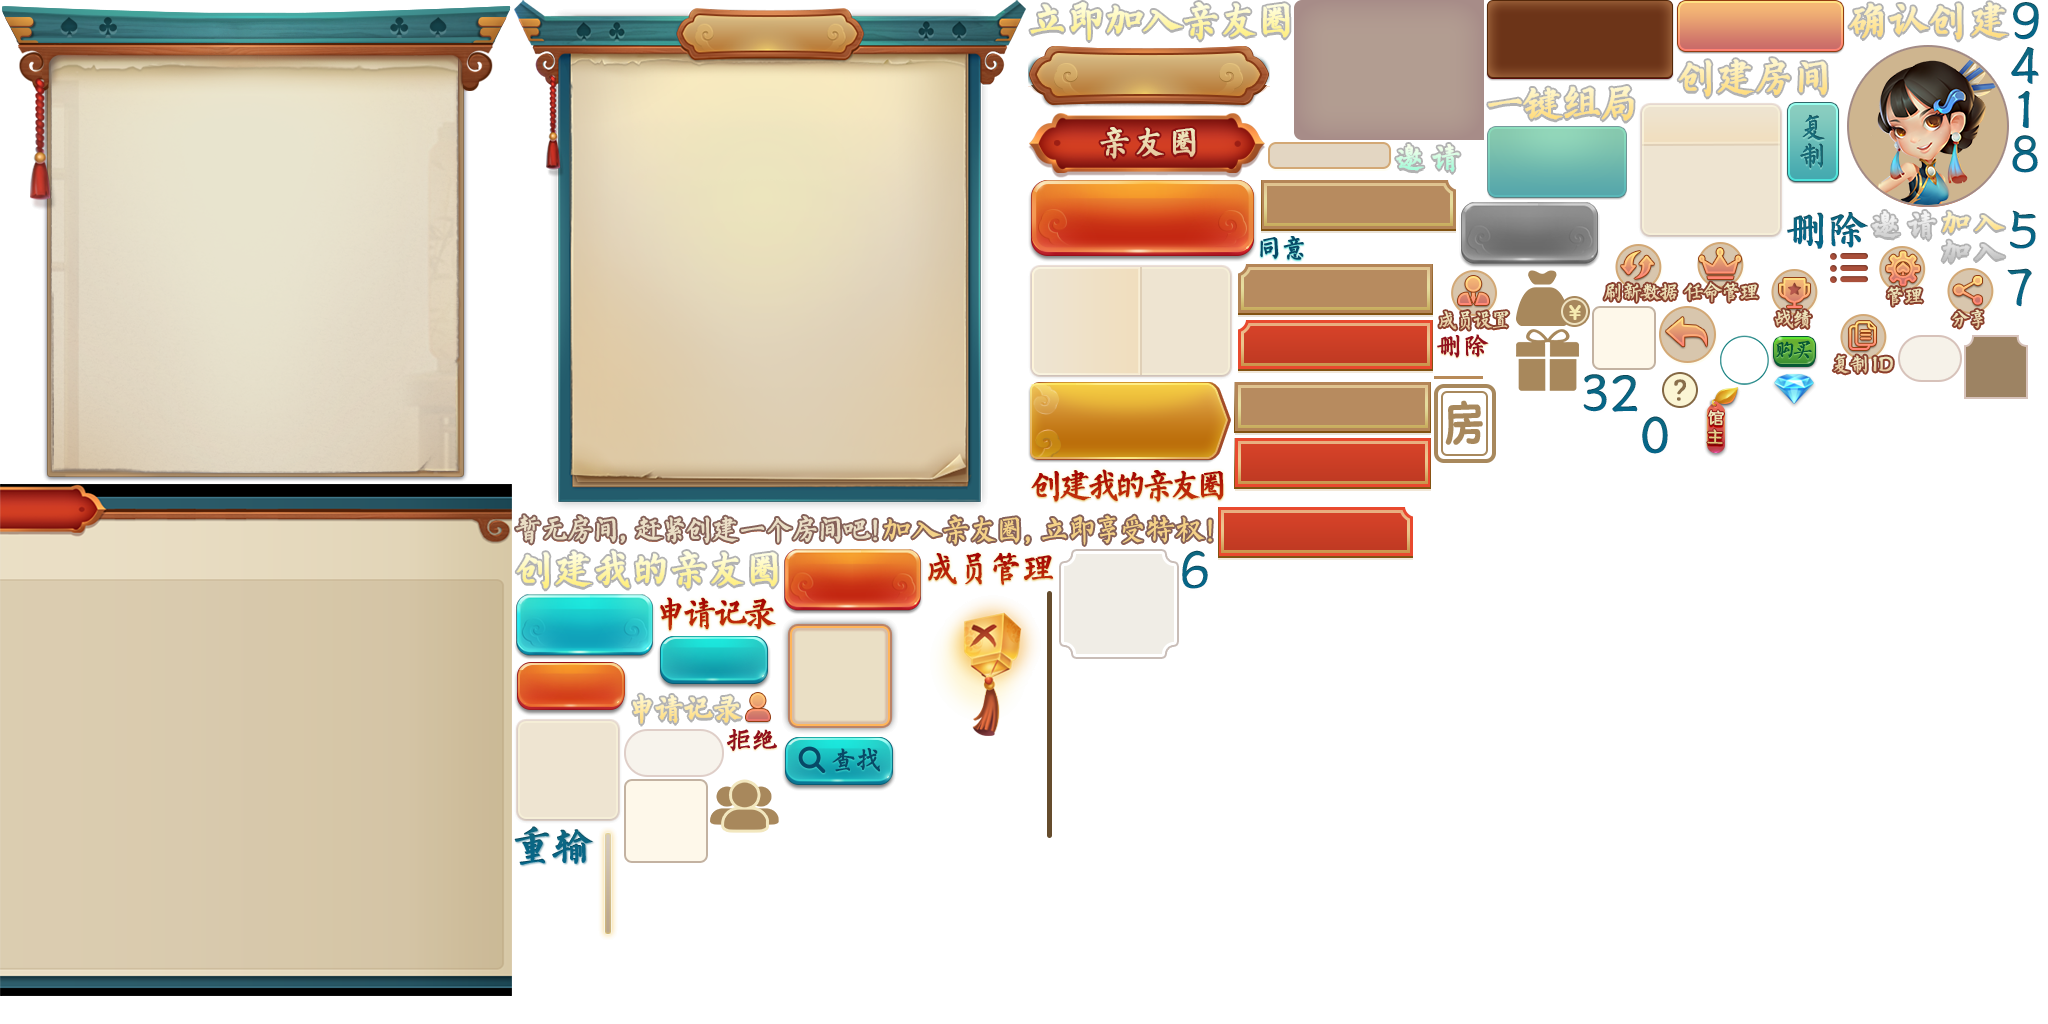
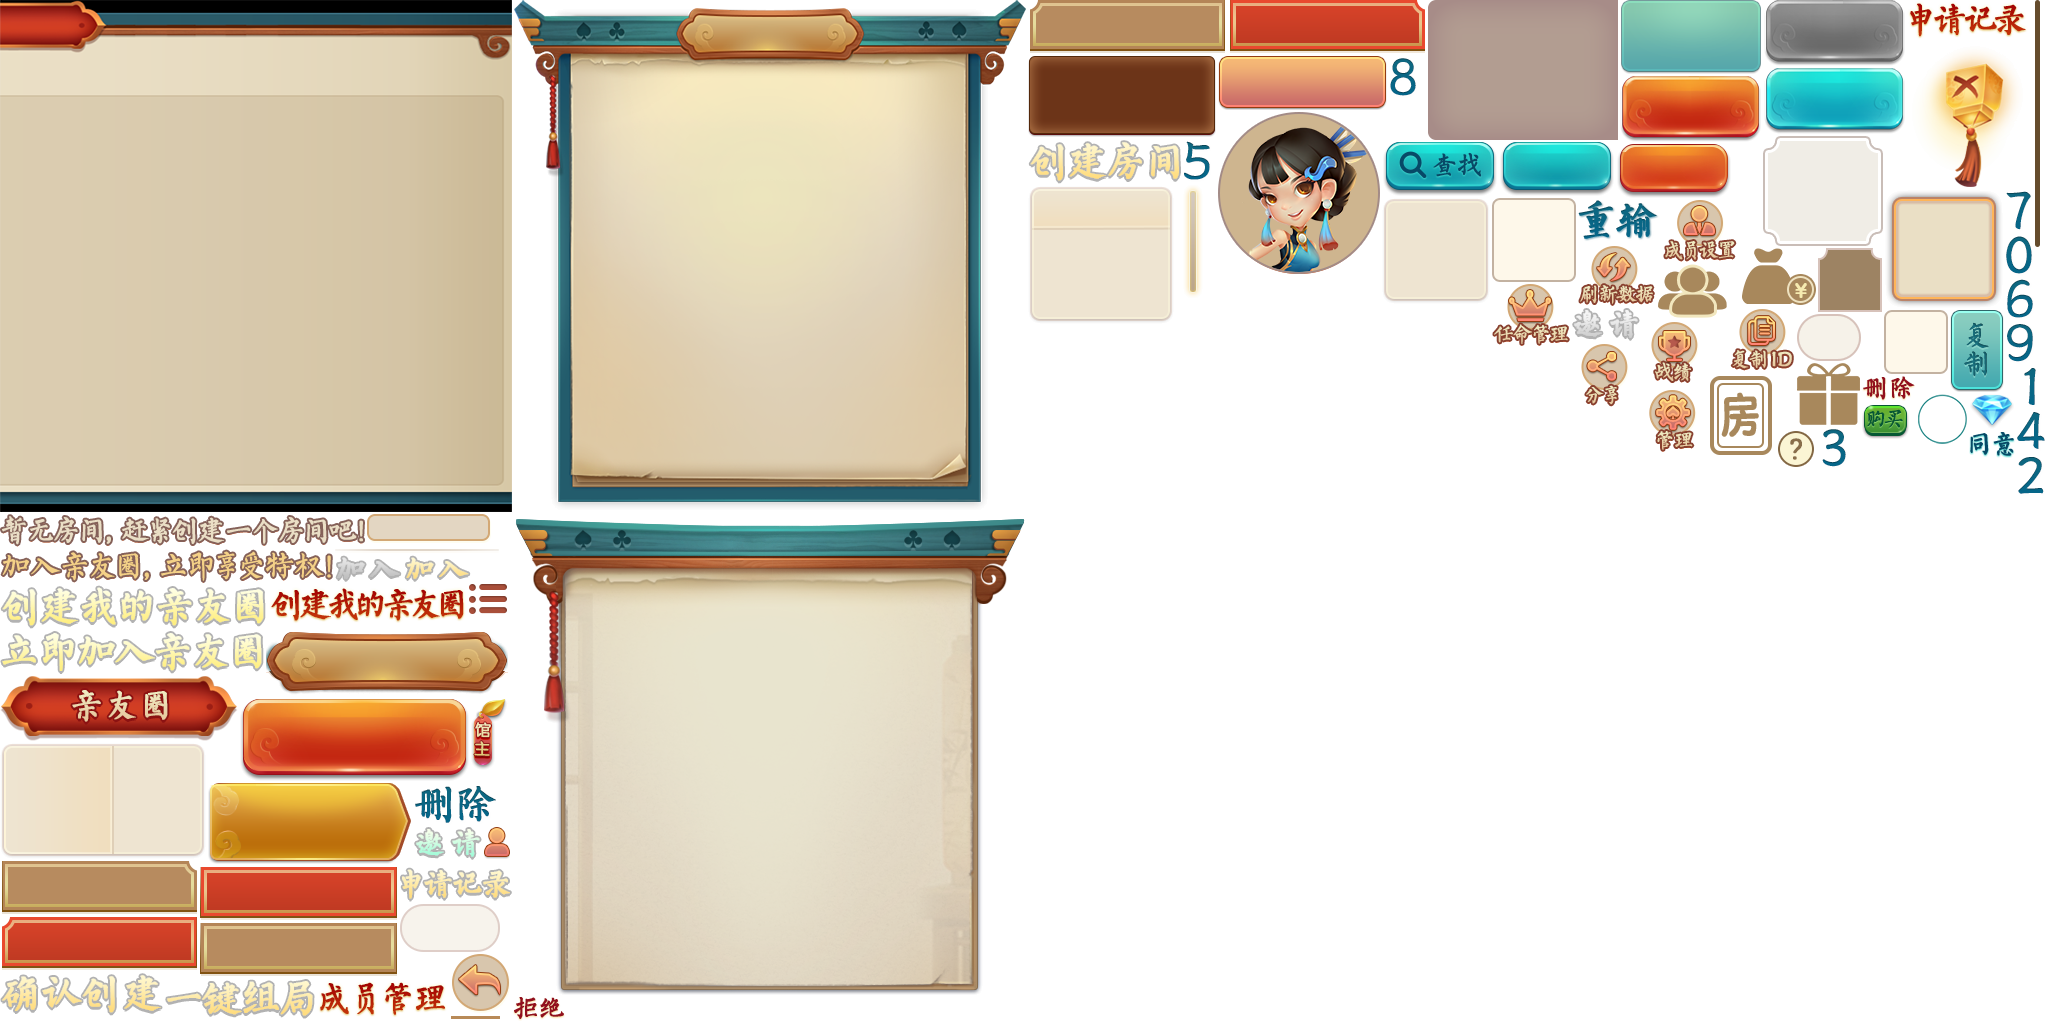
popup

diff --git a/assets/Script/modules/lobby/views/club/ClubView.ts b/assets/Script/modules/lobby/views/club/ClubView.ts
@@ -2,9 +2,11 @@ import { DataStore, Dialog, HTTP, LEnv, LobbyModuleInterface, Logger } from "../
 import { proto } from "../../proto/protoLobby";
 import { LobbyError } from "../LobbyError";
 import { ApplyRecordView } from "./ApplyRecordView";
+import { ClubRequestError } from "./ClubRequestError";
 import { CreateClubView } from "./CreateClubView";
 import { JoinClubView } from "./JoinClubView";
 import { MemberManagerView } from "./MemberManagerView";
+import { SettingPopupView } from "./SettingPopupView";
 
 const { ccclass } = cc._decorator;
 
@@ -36,6 +38,22 @@ export class ClubView extends cc.Component {
     // 选择的茶馆
     private selectedClub: proto.club.IMsgClubInfo;
 
+    public deleteClub(): void {
+
+        const tk = DataStore.getString("token", "");
+        const loadEmailUrl = `${LEnv.rootURL}${LEnv.deleteClub}?&tk=${tk}&clubID=${this.selectedClub.baseInfo.clubID}`;
+
+        const cb = (xhr: XMLHttpRequest, err: string) => {
+
+            const data = <Uint8Array>xhr.response;
+            this.reloadCLub(data);
+
+        };
+
+        this.clubRequest(loadEmailUrl, cb);
+
+    }
+
     protected onDestroy(): void {
 
         this.eventTarget.emit("destroy");
@@ -44,7 +62,6 @@ export class ClubView extends cc.Component {
     }
 
     protected onLoad(): void {
-        //
         this.eventTarget = new cc.EventTarget();
 
         const lm = <LobbyModuleInterface>this.getComponent("LobbyModule");
@@ -65,7 +82,6 @@ export class ClubView extends cc.Component {
     }
 
     private initView(): void {
-        //
 
         this.content = this.view.getChild("content").asCom;
         this.clubPage = this.content.getChild("clubPage");
@@ -119,7 +135,7 @@ export class ClubView extends cc.Component {
         const memberSettingBtn = this.view.getChild("memberSettingBtn");
         memberSettingBtn.onClick(this.onMemberSettingBtnClick, this);
 
-        // 管理管理
+        // 管理
         const managerBtn = this.view.getChild("managerBtn");
         managerBtn.onClick(this.onManagerBtnClick, this);
 
@@ -222,26 +238,22 @@ export class ClubView extends cc.Component {
     }
 
     private onManagerBtnClick(): void {
-        //
 
-        Dialog.showDialog("是否删除此牌友群", () => {
+        const userId = DataStore.getString("userID", "");
+        const clubOwnerId = this.selectedClub.creatorUserID;
+        const isManager = userId === clubOwnerId ? true : false;
 
-            this.deleteClub();
-            // tslint:disable-next-line:align
-        }, () => {
-            //
-        });
+        const popupView = this.addComponent(SettingPopupView);
+        popupView.show(isManager, this);
     }
 
     private onMemberSettingBtnClick(): void {
-        //
 
         const view = this.addComponent(MemberManagerView);
         view.setClubInfo(this.selectedClub);
     }
 
     private renderPhraseListItem(index: number, obj: fgui.GObject): void {
-        //
         let clubInfo: proto.club.IMsgClubInfo;
 
         if (this.clubs !== undefined) {
@@ -273,23 +285,15 @@ export class ClubView extends cc.Component {
 
     }
 
-    private updateClubList(data: Uint8Array): void {
-        //
-        let clubRsp = null;
-        if (data !== null) {
-            const msgClubReply = proto.club.MsgClubReply.decode(data);
-            if (msgClubReply.replyCode === proto.club.ClubReplyCode.RCOperation) {
-                clubRsp = proto.club.MsgClubLoadMyClubsReply.decode(msgClubReply.content);
-            }
-        }
-
+    private updateClubList(clubRsp: proto.club.MsgClubLoadMyClubsReply): void {
         this.updateList(clubRsp);
 
     }
 
     private updateList(clubRsp: proto.club.MsgClubLoadMyClubsReply): void {
-        //
-        this.clubs = clubRsp.clubs;
+        if (clubRsp !== null) {
+            this.clubs = clubRsp.clubs;
+        }
         this.clubList.numItems = this.clubs.length + 1;
         this.clubList.selectedIndex = 0;
 
@@ -318,16 +322,20 @@ export class ClubView extends cc.Component {
     }
 
     private loadClub(): void {
-        //
-
         const tk = DataStore.getString("token", "");
         const loadEmailUrl = `${LEnv.rootURL}${LEnv.loadMyClubs}?&tk=${tk}`;
 
         const cb = (xhr: XMLHttpRequest, err: string) => {
-            //
 
             const data = <Uint8Array>xhr.response;
-            this.updateClubList(data);
+            let clubRsp: proto.club.MsgClubLoadMyClubsReply = null;
+            if (data !== null) {
+                const msgClubReply = proto.club.MsgClubReply.decode(data);
+                if (msgClubReply.replyCode === proto.club.ClubReplyCode.RCOperation) {
+                    clubRsp = proto.club.MsgClubLoadMyClubsReply.decode(msgClubReply.content);
+                }
+            }
+            this.updateClubList(clubRsp);
 
         };
 
@@ -346,13 +354,12 @@ export class ClubView extends cc.Component {
         const loadEmailUrl = `${LEnv.rootURL}${LEnv.loadClubRooms}?&tk=${tk}&clubID=${clubId}`;
 
         const cb = (xhr: XMLHttpRequest, err: string) => {
-            //
             const data = <Uint8Array>xhr.response;
 
             if (data !== null) {
                 const msgLoadRoomListRsp = proto.lobby.MsgLoadRoomListRsp.decode(data);
                 if (msgLoadRoomListRsp.result === proto.lobby.MsgError.ErrSuccess) {
-                    //
+
                     this.updateClubRooms(msgLoadRoomListRsp.roomInfos);
                 } else {
                     const error = LobbyError.getErrorString(msgLoadRoomListRsp.result);
@@ -363,48 +370,35 @@ export class ClubView extends cc.Component {
                     });
                 }
             }
-
-            //this.reloadCLub(data);
-
         };
 
         this.clubRequest(loadEmailUrl, cb);
     }
 
     private updateClubRooms(roomInfos: proto.lobby.IRoomInfo[]): void {
-        //
+
         Logger.debug("updateClubRooms roomInfos = ", roomInfos);
 
         if (roomInfos.length === 0) {
             this.clubPage.asCom.getController("hasRoom").selectedIndex = 0;
         } else {
             //
-
         }
     }
 
-    private deleteClub(): void {
-        //this.destroy();
-
-        const tk = DataStore.getString("token", "");
-        const loadEmailUrl = `${LEnv.rootURL}${LEnv.deleteClub}?&tk=${tk}&clubID=${this.selectedClub.baseInfo.clubID}`;
-
-        const cb = (xhr: XMLHttpRequest, err: string) => {
-            //
-
-            const data = <Uint8Array>xhr.response;
-            this.reloadCLub(data);
-
-        };
-
-        this.clubRequest(loadEmailUrl, cb);
-
-    }
-
     private reloadCLub(data: Uint8Array): void {
-        //
+        let clubRsp: proto.club.MsgClubLoadMyClubsReply = null;
+        if (data !== null) {
+            const msgClubReply = proto.club.MsgClubReply.decode(data);
+            if (msgClubReply.replyCode === proto.club.ClubReplyCode.RCOperation) {
+                clubRsp = proto.club.MsgClubLoadMyClubsReply.decode(msgClubReply.content);
+                this.updateClubList(clubRsp);
+            } else if (msgClubReply.replyCode === proto.club.ClubReplyCode.RCError) {
+                const msgCubOperGenericReply = proto.club.MsgCubOperGenericReply.decode(msgClubReply.content);
+                ClubRequestError.showErrMsg(msgCubOperGenericReply.errorCode);
+            }
 
-        this.updateClubList(data);
+        }
     }
 
     /**

diff --git a/assets/Script/modules/lobby/views/club/SettingPopupView.ts b/assets/Script/modules/lobby/views/club/SettingPopupView.ts
@@ -1,0 +1,84 @@
+import { Dialog, Logger } from "../../lcore/LCoreExports";
+
+interface ClubOperations {
+
+    deleteClub: Function;
+}
+
+/**
+ * 管理界面
+ */
+export class SettingPopupView extends cc.Component {
+
+    private view: fgui.GComponent = null;
+
+    private clubView: ClubOperations;
+
+    public show(isManager: boolean, clubView: ClubOperations): void {
+        this.clubView = clubView;
+
+        const settingPopupView = fgui.UIPackage.createObject("lobby_club", "settingPopup").asCom;
+        this.view = settingPopupView;
+
+        this.initView(isManager);
+        fgui.GRoot.inst.showPopup(this.view);
+        this.view.setPosition(949, 106);
+
+    }
+
+    private initView(isManager: boolean): void {
+        //
+
+        const bg = this.view.getChild("bg").asImage;
+
+        const managerCom = this.view.getChild("managerCom").asCom;
+
+        const modifyNameItem = managerCom.getChild("modify").asButton;
+        const disbandItem = managerCom.getChild("disband").asButton;
+        const quickSettingItem = managerCom.getChild("quickSetting").asButton;
+        const quitClub = this.view.getChild("quitClubBtn").asButton;
+
+        modifyNameItem.onClick(this.onModifyClubNameClick, this);
+        disbandItem.onClick(this.onDisbandClick, this);
+        quickSettingItem.onClick(this.onQuickSettingClick, this);
+        quitClub.onClick(this.onQuitClubClick, this);
+
+        if (isManager === false) {
+            //
+            managerCom.visible = false;
+            bg.height = 91;
+            quitClub.setPosition(8, 19);
+            this.view.setSize(172, 94);
+        }
+
+    }
+
+    private onModifyClubNameClick(): void {
+        //
+        Logger.debug(`onModifyClubNameClick------------`);
+    }
+
+    private onDisbandClick(): void {
+        //
+        Logger.debug(`onDisbandClick------------`);
+
+        Dialog.showDialog("是否解散亲友圈", () => {
+            this.clubView.deleteClub();
+            // tslint:disable-next-line:align
+        }, () => {
+            //
+        });
+
+    }
+
+    private onQuickSettingClick(): void {
+        //
+        Logger.debug(`onQuickSettingClick------------`);
+    }
+
+    private onQuitClubClick(): void {
+        //
+        Logger.debug(`onQuitClubClick------------`);
+    }
+
+}

diff --git a/assets/Script/modules/lobby/views/LobbyView.ts b/assets/Script/modules/lobby/views/LobbyView.ts
@@ -97,6 +97,11 @@ export class LobbyView extends cc.Component {
         await this.msgCenter.start();
     }
     private onFriendClick(): void {
+        this.addComponent(ClubView);
+    }
+
+    private onCreateClick(): void {
+        // TODO:
         const myUser = { userID: "6" };
         const roomConfigObj = {
             roomType: 21
@@ -113,11 +118,6 @@ export class LobbyView extends cc.Component {
         };
 
         this.lm.switchToGame(params, "gameb");
-    }
-
-    private onCreateClick(): void {
-        // TODO:
-        this.addComponent(ClubView);
     }
 
     private onCoinClick(): void {
